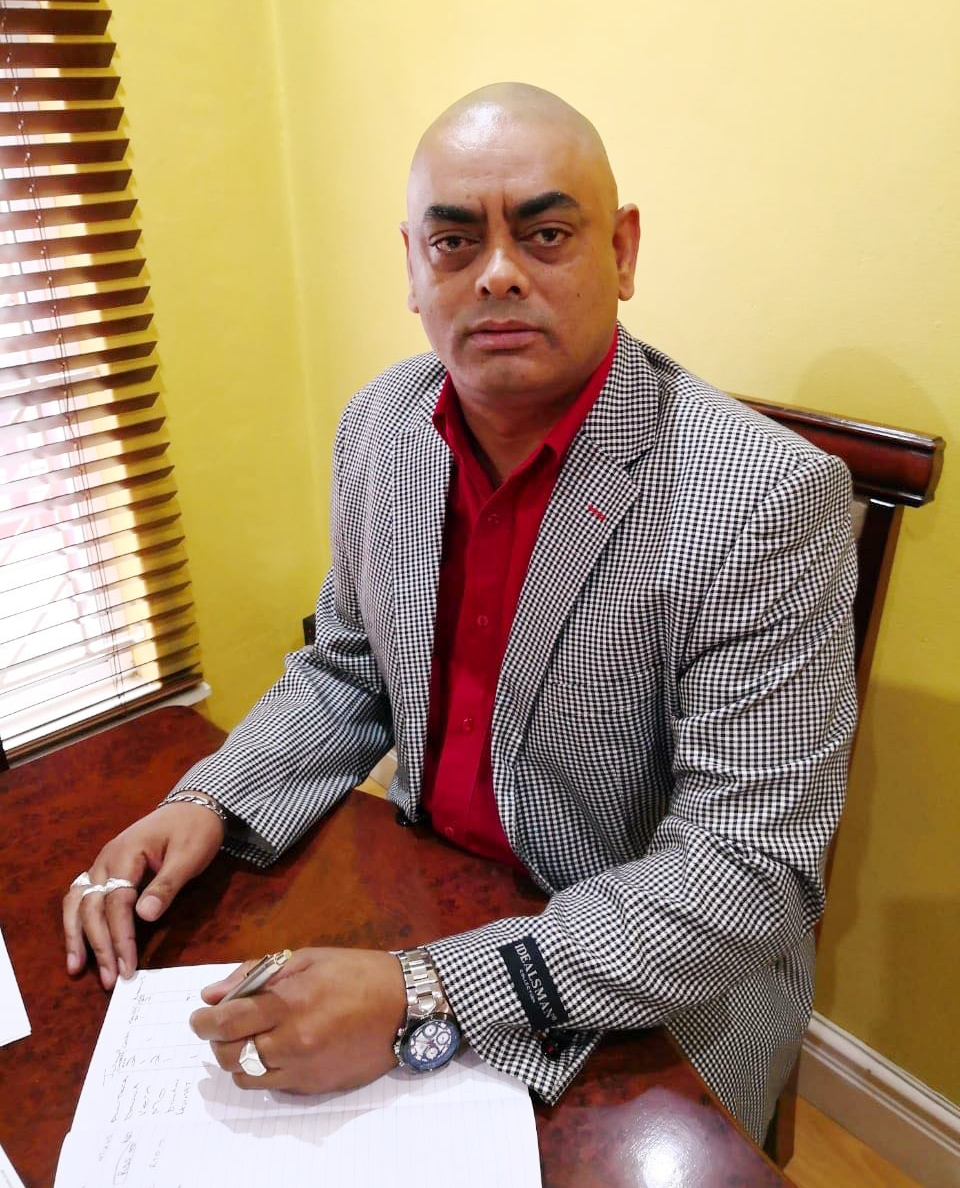
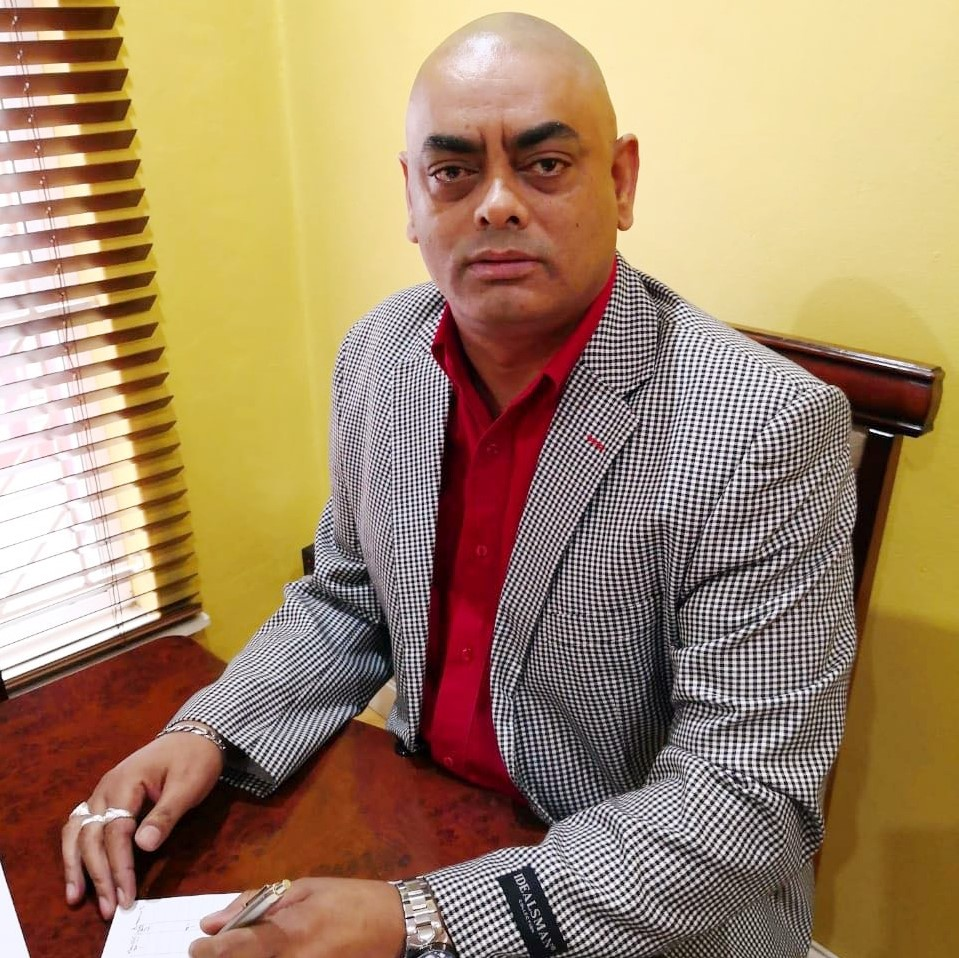
Remove duplicate images and update image references

diff --git a/about.html b/about.html
@@ -84,7 +84,7 @@
              <div class="row mx-auto">
 
                  <div class="col-sm-12 col-xs-12 col-md-6 col-lg-6 col-xl-6">
-                     <div style="background: url('img/people/p1i.jpg') no-repeat center center;
+                     <div style="background: url('img/people/p1.jpg') no-repeat center center;
                                  background-size: contain;
                                  height: 20rem">
                      </div>
@@ -94,7 +94,7 @@
                  </div>
 
                  <div class="col-sm-12 col-xs-12 col-md-6 col-lg-6 col-xl-6">
-                     <div style="background: url('img/people/p2i.jpg') no-repeat center center;
+                     <div style="background: url('img/people/p2.jpg') no-repeat center center;
                                  background-size: contain;
                                  height: 20rem">
                      </div>
